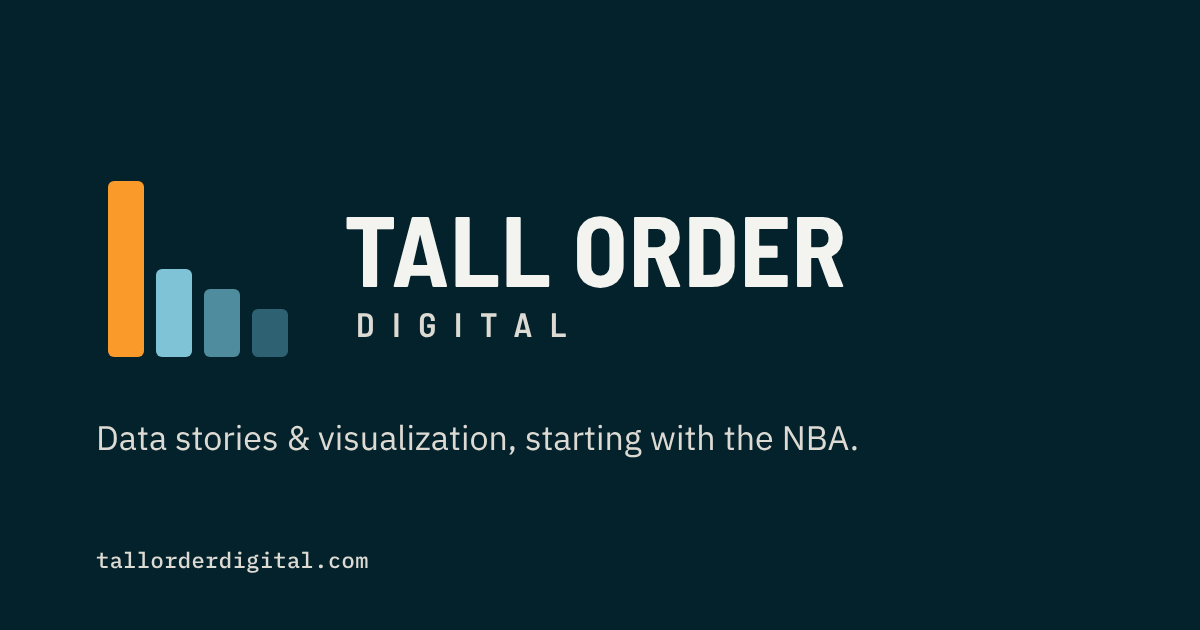
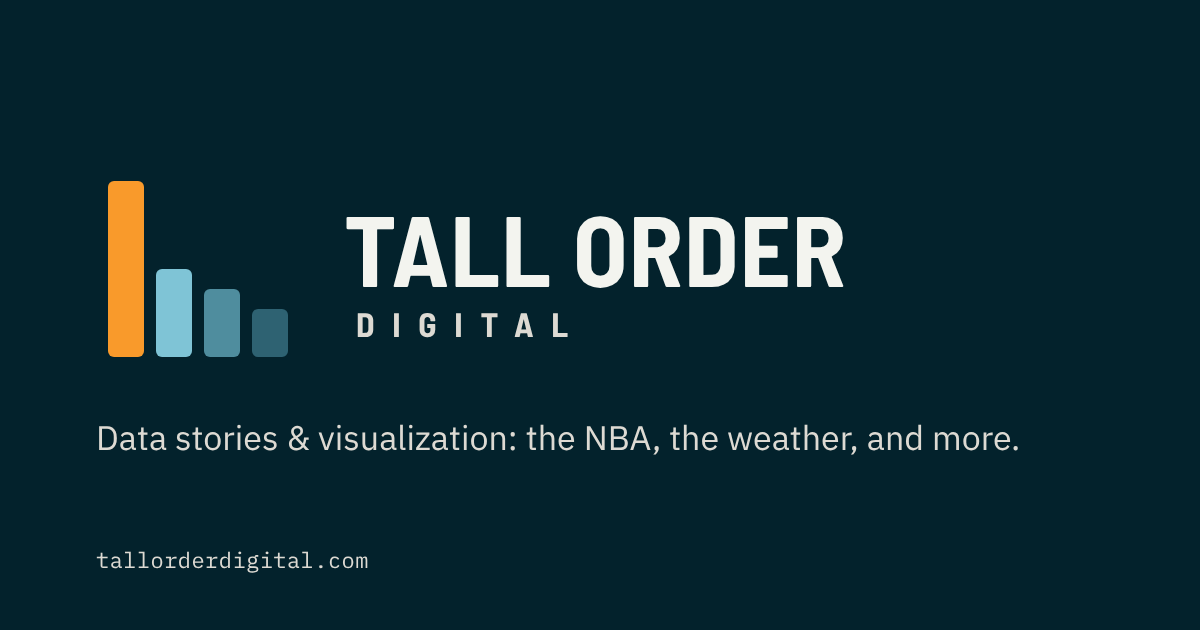
Home share image: the NBA, the weather, and more
Claude-Session: https://claude.ai/code/session_013US6L5vs3363q8pLokADKU

diff --git a/index.html b/index.html
@@ -18,7 +18,7 @@
 <meta property="og:image" content="https://tallorderdigital.com/assets/share-home.png">
 <meta property="og:image:width" content="1200">
 <meta property="og:image:height" content="630">
-<meta property="og:image:alt" content="Tall Order Digital logo: data stories and visualization, starting with the NBA.">
+<meta property="og:image:alt" content="Tall Order Digital logo: data stories and visualization: the NBA, the weather, and more.">
 <meta name="twitter:card" content="summary_large_image">
 <link rel="icon" href="favicon.ico" sizes="48x48">
 <link rel="icon" href="assets/brand/tod-app-icon.svg" type="image/svg+xml">

diff --git a/tools/share-cards.js b/tools/share-cards.js
@@ -712,7 +712,7 @@ function homeCard() {
     .tag { font-size: 34px; color: ${C.sub}; line-height: 1.35; }
     .url { position: absolute; left: 96px; bottom: 56px; }
   </style>
-  <div class="wrap">${lockup(200)}<p class="tag">Data stories &amp; visualization, starting with the NBA.</p></div>
+  <div class="wrap">${lockup(200)}<p class="tag">Data stories &amp; visualization: the NBA, the weather, and more.</p></div>
   <span class="url">tallorderdigital.com</span>`;
 }
 

diff --git a/docs/brand-decisions.md b/docs/brand-decisions.md
@@ -10,7 +10,7 @@ Last updated: November 8, 2026
 **Tall Order Digital is a data visualization and data storytelling site, not a portfolio or services site.** It shows Shawn's data viz and storytelling skills through the work itself: data stories (NBA first, other subjects when the data is good) and public dashboards.
 
 - **Portfolio and Power BI live on shawnnafziger.com.** Tall Order Digital doesn't promote Power BI or consulting work. The About page mentions the day job (BI and data-visualization analyst using tools like Power BI and Contentsquare) as background, and links to shawnnafziger.com.
-- Home page description as live (Nov 8, 2026, when the site widened beyond the NBA): "Data stories and visualization: the NBA, the weather, and anything else where the data is too good to pass up." The intro under the logo says the same: "Stories built from the numbers up: the NBA, the weather, and anything else where the data is too good to pass up." (Was "with a focus on NBA analytics." The home share image still reads "starting with the NBA", which stays true.)
+- Home page description as live (Nov 8, 2026, when the site widened beyond the NBA): "Data stories and visualization: the NBA, the weather, and anything else where the data is too good to pass up." The intro under the logo says the same: "Stories built from the numbers up: the NBA, the weather, and anything else where the data is too good to pass up." (Was "with a focus on NBA analytics.") The home share image (`assets/share-home.png`, from `tools/share-cards.js`) reads "Data stories & visualization: the NBA, the weather, and more." (was "starting with the NBA").
 - Tagline candidate: "Find what stands out." (ties to the logo's standout bar; not yet decided)
 
 ## Site structure: DECIDED (Nov 8, 2026)
